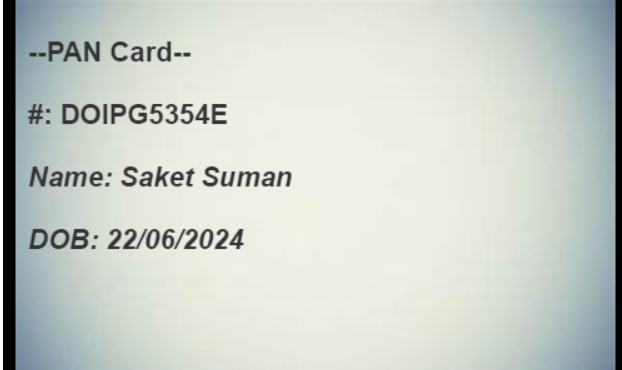
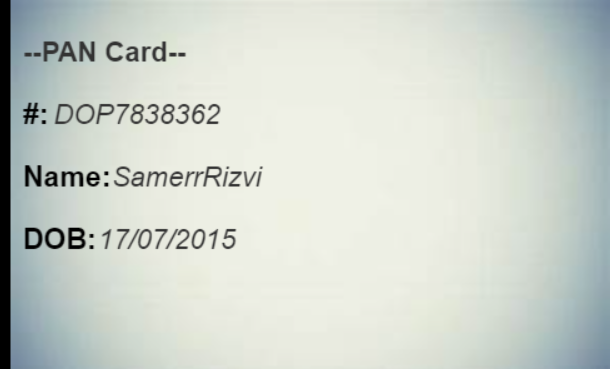
update js files and its positions

Changed region(s): [[0.0, 0.0, 0.4672, 1.0], [0.9656, 0.0, 1.0, 1.0]]

diff --git a/src/scripts/app.js b/src/scripts/app.js
@@ -194,45 +194,37 @@ const DOB = item.querySelector("div:nth-child(4)").textContent.trim();
 generateImage(documentType, documentNumber, holdingPersonName, DOB);
 };
 
-const generateImage =(documentType, documentNumber, holdingPersonName,DOB) => {
+const generateImage = (documentType, documentNumber, holdingPersonName, DOB) => {
     const canvas = document.createElement('canvas');
     const context = canvas.getContext('2d');
-    let canvasWidth = 600; 
+    let canvasWidth = 600;
     let canvasHeight = 400;
 
     const backgroundImage = new Image();
-    let backgroundColor = '#ffe6e6'; 
+    let backgroundColor = '#ffe6e6';
 
     const mappedDocumentType = documentMapper.get(documentType.toLowerCase());
 
-    
-if (mappedDocumentType === "DrivingLicense") {
-    backgroundImage.src = 'assets/images/gery.jpg';
-    backgroundColor = '#F4A460';
-    canvasWidth = 500;
-    canvasHeight = 300;
-} else if (mappedDocumentType === "PAN") {
-    backgroundImage.src = 'assets/images/image.jpg';
-    backgroundColor = 'FFFAFA';
-    canvasWidth = 500;
-    canvasHeight = 300;
-} else {
-    backgroundImage.src = 'assets/images/tricolour.jpg';
-}
+    if (mappedDocumentType === "DrivingLicense") {
+        backgroundImage.src = '/assets/images/gery.jpg';
+        backgroundColor = '#F4A460';
+        canvasWidth = 500;
+        canvasHeight = 300;
+    } else if (mappedDocumentType === "PAN") {
+        backgroundImage.src = '/assets/images/image.jpg';
+        backgroundColor = 'FFFAFA';
+        canvasWidth = 500;
+        canvasHeight = 300;
+    } else {
+        backgroundImage.src = '/assets/images/tricolour.jpg';
+    }
 
-    
- 
-    
     canvas.width = canvasWidth;
     canvas.height = canvasHeight;
 
-
     context.fillStyle = backgroundColor;
     context.fillRect(0, 0, canvas.width, canvas.height);
-   
 
-
-    
     backgroundImage.onload = () => {
         const scaleFactor = Math.min(canvas.width / backgroundImage.width, canvas.height / backgroundImage.height);
         const width = backgroundImage.width * scaleFactor;
@@ -242,9 +234,9 @@ if (mappedDocumentType === "DrivingLicense") {
 
         context.drawImage(backgroundImage, offsetX, offsetY, width, height);
 
-        context.fillStyle = '#333'; 
-        context.font = 'bold 22px Arial'; 
-        context.textAlign = 'left'; 
+        context.fillStyle = '#333';
+        context.font = 'bold 22px Arial';
+        context.textAlign = 'left';
 
         const formattedDOB = formatDOB(DOB);
 
@@ -262,31 +254,45 @@ if (mappedDocumentType === "DrivingLicense") {
         const lines = text.split('\n');
         lines.forEach((line, index) => {
             if (line.includes('Name:')) {
-            
-                const nameIndex = line.indexOf('Name:') + 6;
-                const name = line.substring(nameIndex);
-                context.font = 'italic bold 22px Arial';
-                context.fillText(`Name: ${name}`, 20, 50 + index * 50);
+                const nameIndex = line.indexOf('Name:');
+                context.font = 'bold 23px Arial';
+                context.fillStyle = '#000';
+                context.fillText(line.substring(0, nameIndex + 5), 20, 50 + index * 50);
+                
+                context.font = 'italic 22px Arial';
+                context.fillStyle = '#333';
+                context.fillText(line.substring(nameIndex + 5), 20 + context.measureText(line.substring(0, nameIndex + 5)).width, 50 + index * 50);
+            } else if (line.includes('#:')) {
+                const hashIndex = line.indexOf('#:');
+                context.font = 'bold 23px Arial';
+                context.fillStyle = '#000';
+                context.fillText(line.substring(0, hashIndex + 2), 20, 50 + index * 50);
+                
+                context.font = 'italic 22px Arial';
+                context.fillStyle = '#333';
+                context.fillText(line.substring(hashIndex + 2), 20 + context.measureText(line.substring(0, hashIndex + 2)).width, 50 + index * 50);
+            } else if (line.includes('DOB:')) {
+                const dobIndex = line.indexOf('DOB:');
+                context.font = 'bold 23px Arial';
+                context.fillStyle = '#000';
+                context.fillText(line.substring(0, dobIndex + 4), 20, 50 + index * 50);
+                
+                context.font = 'italic 22px Arial';
+                context.fillStyle = '#333';
+                context.fillText(line.substring(dobIndex + 4), 20 + context.measureText(line.substring(0, dobIndex + 4)).width, 50 + index * 50);
             } else {
                 context.fillText(line, 20, 50 + index * 50);
             }
         });
-   
-   
-        
-        
 
+        const image = canvas.toDataURL("image/png");
 
-
-
-    const image=canvas.toDataURL("image/png");
-
-    const newWindow = window.open();
-    newWindow.document.write('<img src="' + image + '" />');
+        const newWindow = window.open();
+        newWindow.document.write('<img src="' + image + '" />');
+    };
 };
 
-};
 const formatDOB = (DOB) => {
-const parts = DOB.split('-');
-return `${parts[2]}/${parts[1]}/${parts[0]}`;
+    const parts = DOB.split('-');
+    return `${parts[2]}/${parts[1]}/${parts[0]}`;
 }
